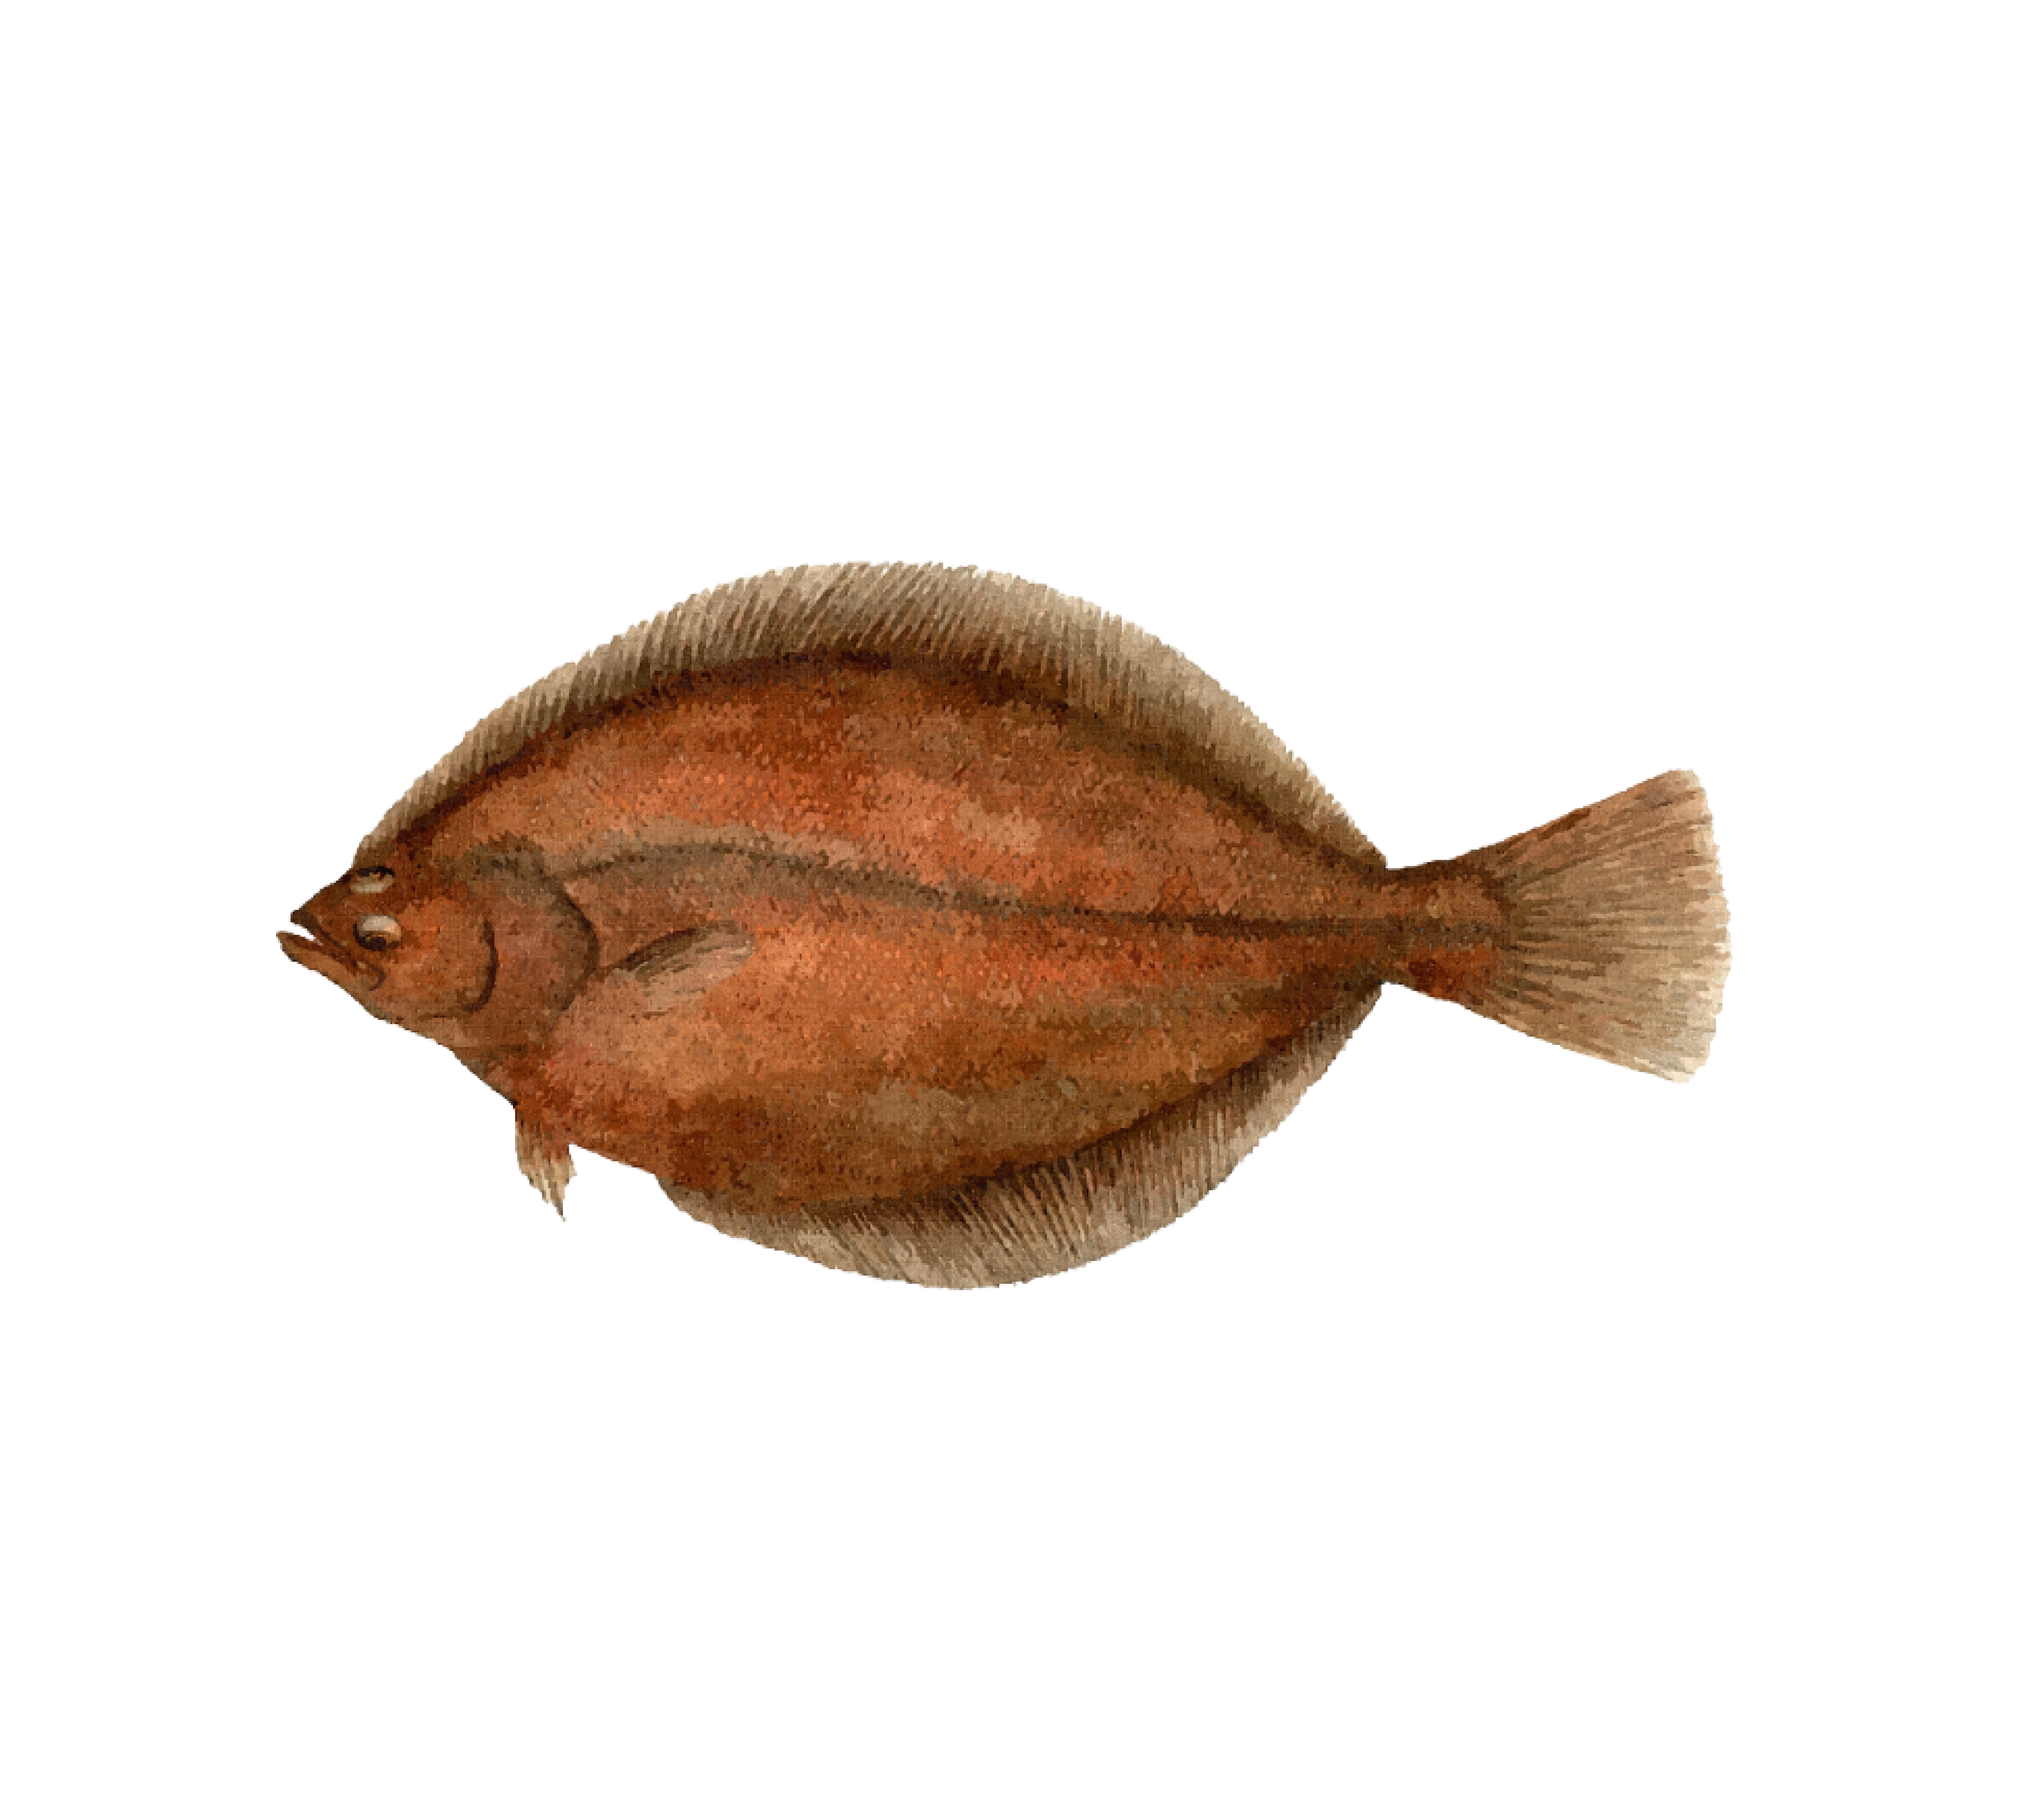
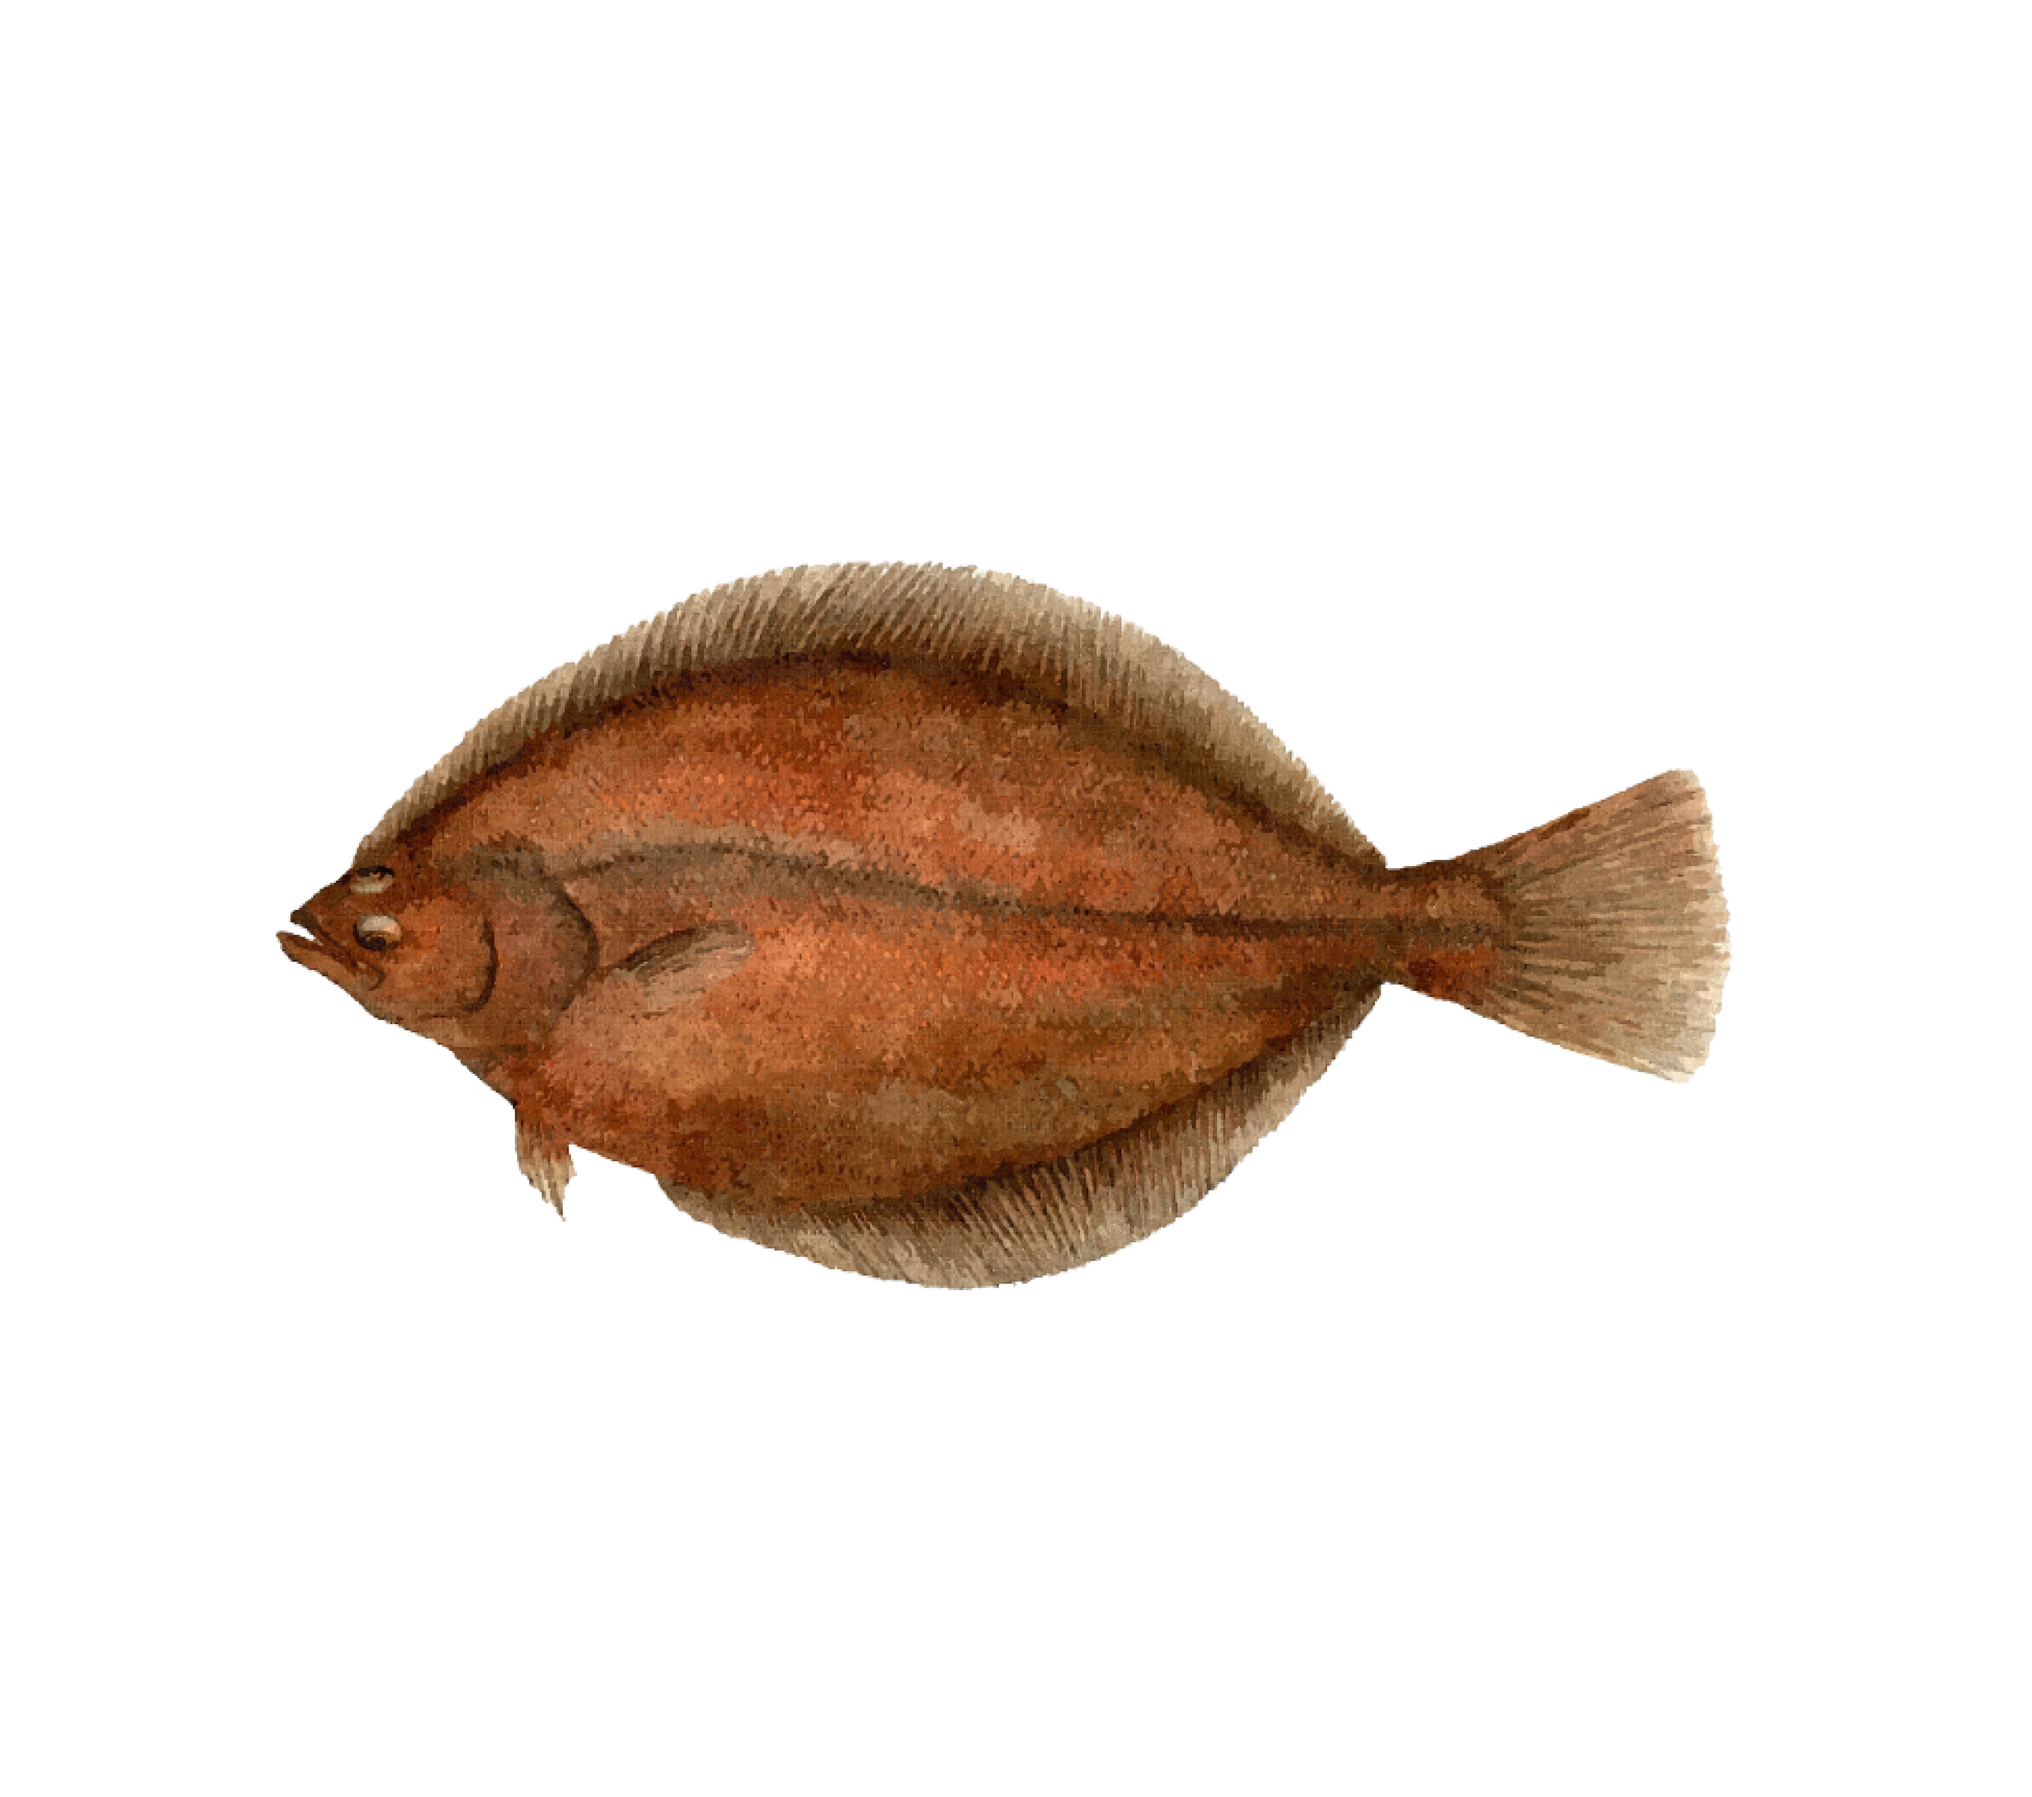
commit

Changed region(s): [[0.1555, 0.3119, 0.8707, 0.7175], [0.1555, 0.5303, 0.1866, 0.5615], [0.1244, 0.4991, 0.1555, 0.5303]]

diff --git a/styles.css b/styles.css
@@ -457,12 +457,12 @@ body {
 
 .project-media {
  flex: 0 0 30%; /* image column takes ~30% of the row */
- min-width: 120px;     /* safety floor so it doesn't get tiny */
+ min-width: 130px;     /* safety floor so it doesn't get tiny */
 }
 
 .project-media img {
  display: block;
- max-width: 100%; /* 100% fills the media column */
+ max-width: 150px; 
  height: auto;
 }
 
